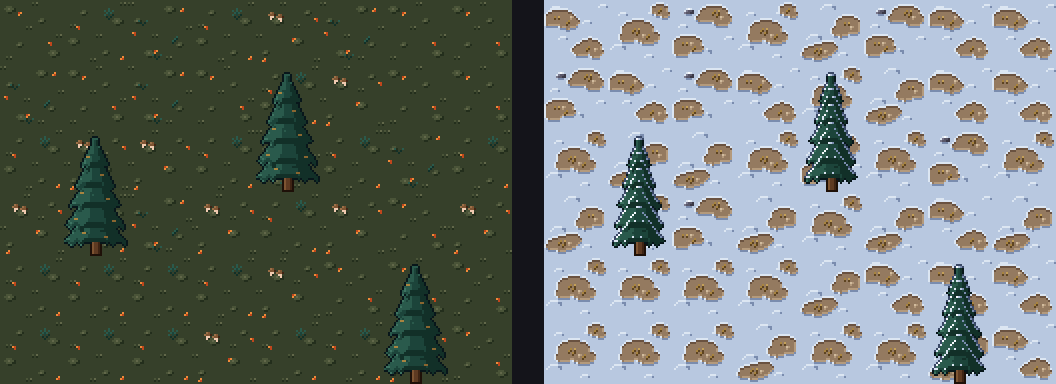
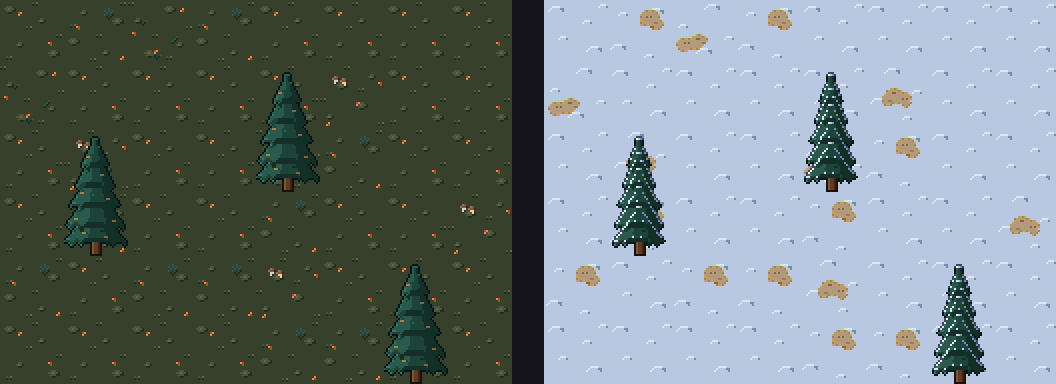
Terrain v1.1: autumn mountains mostly snow (one soft melt patch), varied dry-grass lips
Keys unchanged. autumn.mountains.snow.0 is plain snow; .1-.3 have ONE melted patch each (a long strip
9 %, a round patch 9 %, a crooked patch 10 %), light colours only (desert.stone 3, autumn.grass 2-4),
no rim ring, drifts without the summer rock / ice / shrub. Roughness 2.8 / 5.9 / 5.8 / 6.0 (mountain
snow 2.6-5.2). autumn.face.stone lips: dry-grass stretches of irregular length and place per variant
and part, ends fading to the top row. Review image uses the game's variant pick; PRODUCTION.md / NAMES.md.

Claude-Session: https://claude.ai/code/session_01VbGyibjwGmxCJ2yW5ydLfW

diff --git a/tools/terrain_release/release_v11.py b/tools/terrain_release/release_v11.py
@@ -22,7 +22,7 @@ import sys
 sys.path.insert(0, os.path.dirname(__file__))
 import gen_samples as S  # noqa: E402
 import release_faces as F  # noqa: E402
-from release_ground import new_tile, tones, set_ramp, desert_sand, forest_grass, mountains_snow  # noqa: E402
+from release_ground import new_tile, tones, set_ramp, desert_sand, forest_grass, SNOW  # noqa: E402
 from release_nature import pine  # noqa: E402
 from gen_samples import TUFT_S, TUFT_M, SPRIG  # noqa: E402
 
@@ -317,59 +317,70 @@ def autumn_forest_grass(v):
     return t
 
 
-# Autumn in the mountains (director's decision after the v1.1 inspection): PARTIAL snow. The summer snow
-# ground with bare patches (about 20-30 % of the tile) of warm rock (desert.stone) and dry ochre grass
-# (autumn.grass), at different places per variant. The patches wrap like everything on a ground tile.
-BARE = {  # the bare patches per variant: each a few overlapping ellipses (cx, cy, rx, ry), hand-placed and
-    # kept 1 px inside the tile (a patch cut by the tile's edge would not continue on a neighbour of another variant)
-    0: [[(8, 9, 6, 3.5), (12, 11, 5, 3), (4, 11, 3, 2)], [(23, 23, 5, 3), (19, 25, 4, 2.5), (26, 26, 3, 2.5)]],
-    1: [[(21, 7, 6, 3.5), (25, 9.5, 4.5, 3), (16, 9, 3, 2)], [(8, 22, 6, 3.5), (5, 25, 4, 2.5), (12, 24, 3, 2)]],
-    2: [[(15, 15, 7, 4), (20, 18.5, 5, 3), (10, 18.5, 3.5, 2.5)], [(26, 5, 3.5, 2.5), (28.5, 7, 2, 1.5)]],
-    3: [[(24, 12, 5, 3.5), (20.5, 15.5, 4, 2.5), (27, 15, 2.5, 2)], [(9, 26, 6, 3), (14, 24, 4, 2.5), (4, 27, 2.5, 2)]],
+# Autumn in the mountains (director's decision after the v1.1 inspection): mostly snow. Variant 0 is
+# plain snow (the most common, like every ground); variants 1-3 have ONE melted patch each, of their
+# own size and shape (8-12 % of the tile), kept 1 px inside the tile. Light colours only (warm rock
+# desert.stone 3 / 2, dry ochre grass autumn.grass 4 / 3 / 2) and no rim around the patch, so the snow
+# stays as quiet as the mountain snow (roughness <= 6).
+BARE = {  # (cx, cy, rx, ry) ellipses whose union is the patch, hand-placed
+    1: [(9, 22, 5.5, 2.5), (13.5, 20, 3.5, 2), (6, 24, 2.5, 1.5)],  # a long low strip, lower left
+    2: [(21, 9, 4, 3.5), (24, 12, 3, 2.5), (18.5, 11.5, 2, 1.5)],  # a round patch, upper right
+    3: [(15, 15, 3, 2), (18, 17, 4, 2.5), (12, 18, 2.5, 2), (21, 19.5, 2, 1.5)],  # a crooked patch, middle
 }
-BARE_GRASS = {  # dry grass tufts, drawn only on the bare rock
-    0: [(5, 8, TUFT_S), (21, 23, SPRIG), (11, 10, SPRIG)],
-    1: [(20, 5, TUFT_M), (5, 21, TUFT_S), (10, 23, SPRIG)],
-    2: [(12, 14, TUFT_M), (19, 17, SPRIG), (25, 4, SPRIG)],
-    3: [(22, 11, TUFT_S), (7, 24, TUFT_M)],
+BARE_MARKS = {  # (x, y, pattern): '#' dry grass blade pairs (autumn.grass), 's' a stone (desert.stone 2)
+    1: [(6, 21, "g.g"), (12, 19, "gg"), (15, 21, "s")],
+    2: [(19, 8, "g.g"), (23, 11, "s"), (21, 13, "gg")],
+    3: [(14, 14, "gg"), (19, 17, "g.g"), (12, 18, "s")],
 }
-BARE_STONES = {0: [(13, 8), (25, 24)], 1: [(24, 8), (9, 21)], 2: [(17, 17)], 3: [(25, 13), (12, 25)]}
+
+
+def _bare(v):
+    bare = set()
+    for cx, cy, rx, ry in BARE.get(v, []):
+        k = {1: 1.3, 2: 1.24, 3: 1.4}[v]  # each patch its own size (8-12 % of the tile)
+        rx, ry = rx * k, ry * k
+        for y in range(int(cy - ry) - 1, int(cy + ry) + 2):
+            for x in range(int(cx - rx) - 1, int(cx + rx) + 2):
+                if ((x + 0.5 - cx) / rx) ** 2 + ((y + 0.5 - cy) / ry) ** 2 <= 1 and 1 <= x <= 30 and 1 <= y <= 30:
+                    bare.add((x, y))
+    return bare
 
 
 def autumn_mountains_ground(v):
-    t = mountains_snow(v)
+    t = new_tile(32, 32, base=("mount.snow", 2))  # the drifts of mountains.snow.N, without its rock / ice / shrub
+    for x, y, p in SNOW[v]:
+        t.stamp(x, y, p, tones("mount.snow"))
     for m in ("desert.stone", "autumn.grass"):
         set_ramp(t, m, m)
-    bare = set()
-    for patch in BARE[v]:
-        for cx, cy, rx, ry in patch:
-            rx, ry = rx * 1.2, ry * 1.2  # about 20-30 % of the ground bare (director, v1.1 inspection)
-            for y in range(int(cy - ry) - 1, int(cy + ry) + 2):
-                for x in range(int(cx - rx) - 1, int(cx + rx) + 2):
-                    if ((x + 0.5 - cx) / rx) ** 2 + ((y + 0.5 - cy) / ry) ** 2 <= 1 and 1 <= x <= 30 and 1 <= y <= 30:
-                        bare.add((x, y))
+    bare = _bare(v)
     for x, y in bare:
-        up, down = ((x, (y - 1) % 32) in bare), ((x, (y + 1) % 32) in bare)
-        left, right = (((x - 1) % 32, y) in bare), (((x + 1) % 32, y) in bare)
-        tone = 2
-        if not up:
-            tone = 1  # the snow bank above casts a shadow on the rock
-        elif not down or not right:
-            tone = 3 if left else 2  # the lower right rim catches the light from the top left
-        t.put(x, y, "desert.stone", tone)
-    for x, y in bare:  # the snow's edge around the patch: a lit rim on top, a shaded rim below
-        for dx, dy, tone in ((0, -1, 3), (0, 1, 1), (1, 0, 2), (-1, 0, 3)):
-            q = ((x + dx) % 32, (y + dy) % 32)
-            if q not in bare and t.px[q[1]][q[0]] and t.px[q[1]][q[0]][0] == "mount.snow":
-                t.put(q[0], q[1], "mount.snow", tone)
-    for x, y, p in BARE_GRASS[v]:
-        t.stamp(x, y, p, tones("autumn.grass"), only_on="desert.stone")
-    for x, y in BARE_STONES[v]:
-        t.stamp(x, y, ["43", "32"], tones("desert.stone"), only_on="desert.stone")
+        edge = any((x + dx, y + dy) not in bare for dx, dy in ((0, -1), (1, 0), (0, 1), (-1, 0)))
+        # the patch's fringe is dry grass (lighter than rock, so it blends into the snow), the inside rock
+        if edge:
+            t.put(x, y, "autumn.grass", 4 if (x + y) % 3 else 3)
+        else:
+            t.put(x, y, "desert.stone", 3)
+    for x0, y, pat in BARE_MARKS.get(v, []):
+        for k, ch in enumerate(pat):
+            x = x0 + k
+            if (x, y) not in bare:
+                continue
+            if ch == "g":
+                t.put(x, y, "autumn.grass", 2)
+            elif ch == "s":
+                t.put(x, y, "desert.stone", 2)
+                if (x + 1, y) in bare:
+                    t.put(x + 1, y, "desert.stone", 2)
     return t
 
 
-LIP_BARE = [(5, 12), (20, 26)]  # x ranges where the autumn lip shows dry grass instead of snow
+# x ranges where the autumn lip shows dry grass instead of snow: irregular lengths and places per
+# variant and part (the ends of a stretch show grass only in the top row, so it fades into the snow)
+LIP_BARE = {
+    (0, "top"): [(3, 9), (24, 26)], (0, "top-base"): [(13, 21)],
+    (1, "top"): [(10, 12), (17, 27)], (1, "top-base"): [(1, 4), (20, 23)],
+    (2, "top"): [(6, 15)], (2, "top-base"): [(8, 10), (26, 30)],
+}
 
 
 def autumn_stone_lip(kind, seg, var=0):
@@ -378,12 +389,13 @@ def autumn_stone_lip(kind, seg, var=0):
     with ctx:
         t = F.stone_face(kind, seg)
     set_ramp(t, "autumn.grass", "autumn.grass")
-    shift = 7 * var
-    for y in range(t.h):
-        for x in range(t.w):
-            v = t.px[y][x]
-            if v and v[0] == "mount.snow" and any(a <= (x - shift) % 32 <= b for a, b in LIP_BARE):
-                t.px[y][x] = ("autumn.grass", min(3, v[1]))
+    for a, b in LIP_BARE[(var, kind)]:
+        for x in range(a, b + 1):
+            end = x in (a, b) and b - a >= 2
+            for y in range(t.h):
+                v = t.px[y][x]
+                if v and v[0] == "mount.snow" and (not end or y == 0):
+                    t.px[y][x] = ("autumn.grass", min(3, v[1]))
     return t
 
 

diff --git a/tools/terrain_release/review_v11.py b/tools/terrain_release/review_v11.py
@@ -11,6 +11,12 @@ from PIL import Image
 
 from mock_scene import tile_hash
 
+
+def release_variant(h, n):
+    """terrainArt.groundVariant for the release art: variant 0 on about half the ground, the others an equal share."""
+    k = h % (2 * n)
+    return 0 if k <= n else k - n
+
 # The demo map: ~ water, L land. A lake with a bay, an islet, a peninsula and a channel.
 MAP = [
     "LLLLLLLLLLLLLLLL",
@@ -90,7 +96,7 @@ def autumn(images):
         x0 = k * (8 * 32 + 16)
         for y in range(6):
             for x in range(8):
-                out.paste(images[f"{ground}.{tile_hash(x, y) % 4}"], (x0 + x * 32, y * 32))
+                out.paste(images[f"{ground}.{release_variant(tile_hash(x, y), 4)}"], (x0 + x * 32, y * 32))
         for i, (px, py) in enumerate(((1, 3), (4, 2), (6, 5))):
             im = images[pine]
             out.alpha_composite(im, (x0 + px * 32, py * 32 + 32 - im.height))
@@ -129,7 +135,7 @@ GROUPS = [  # (title, how the engine uses it, test on the name)
      "`.v1` (other pebble / clod positions): pick per tile (e.g. `hash % 2`: 0 = no suffix, 1 = `.v1`).",
      lambda n: n.startswith(("face.sand.", "face.desert.", "face.path."))),
     ("Autumn: forest and mountains", "`<season>.<key>` keys for the autumn season bundle (add them to its key set, like "
-     "`autumn.tile.grass.0`). `autumn.mountains.snow.N` is the mountains' ground in autumn (partial snow: bare patches of warm rock and dry grass).",
+     "`autumn.tile.grass.0`). `autumn.mountains.snow.N` is the mountains' ground in autumn (mostly snow: .0 plain, .1-.3 one small melted patch of warm rock and dry grass).",
      lambda n: n.startswith(("autumn.forest.", "autumn.mountains.", "autumn.face.stone."))),
 ]
 

diff --git a/docs/art-release/terrain/PRODUCTION.md b/docs/art-release/terrain/PRODUCTION.md
@@ -213,19 +213,18 @@
 | その季節の崖のふち | `autumn/winter.face.earth.<top/top-base>.<4/8>.v1/.v2` | 16 | 上の土の崖の種類違いに、v1.0 と同じ秋・冬のふち（色の置き換え＋落ち葉・雪）を描いたもの |
 | 台地の崖 | `face.sand.*`（島の砂）、`face.desert.*`（砂漠の赤い砂）、`face.path.*`（道）、それぞれに `.v1` | 48 | 土の崖と同じ形で、ふちを上の地面の色（砂・赤い砂・道）に、崖の本体を上より暗い色に置き換え（島の砂は砂岩 desert.stone、赤い砂と道は土 earth.face）。地図では砂漠の砂の台地 57 マス、道の台地 4 マス（島の砂の台地は今は 0）。`.v1` は土の崖の v1 と同じ小石・土くれの位置で、小石が 32 ドットごとに並ばないように |
 | 秋の森 | `autumn.forest.grass.0-3`、`autumn.forest.pine` | 5 | 苔を枯れた沼の色（forest.swamp）に置き換え＋落ち葉（fire 1〜2 番）を種類ごとに違う高さに。針葉樹は同じ形で、針葉の先に枯れ色（autumn.grass）の小さなまとまり 8 か所 |
-| 秋の雪山 | `autumn.mountains.snow.0-3`、`autumn.mountains.pine`、`autumn.face.stone.<top/top-base>.<4/8>`（＋.v1/.v2） | 17 | **一部に雪が残る秋の山**（監督の決定：夏と冬が雪なので、雪なしは不自然。灰紫の岩には秋の暖かさがない）。夏の雪の地面に、雪が解けた所（地面の 22〜25%）を手で描いた形で 2 つずつ置き、暖かい色の岩（desert.stone）と枯れた黄土色の草（autumn.grass）、小石を描いた。解けた所の上のふちは雪の影（岩の 1 番）、まわりの雪は上が明るく下が影。解けた所はマスの端をまたがない（隣が別の種類でも切れない）。針葉樹は細い木にうすく雪（1 行）。崖のふちは雪のまま、2 か所だけ枯れ草（種類ごとに位置をずらす） |
+| 秋の雪山 | `autumn.mountains.snow.0-3`、`autumn.mountains.pine`、`autumn.face.stone.<top/top-base>.<4/8>`（＋.v1/.v2） | 17 | **ほとんど雪の秋の山**（監督の決定：夏と冬が雪なので雪なしは不自然。再確認で「解けた穴が水玉に見える・ざらつきが高い」の指摘を受けて描き直し）。0 番はただの雪（いちばん多く出る種類）。1〜3 番は**解けた所が 1 つだけ**、形も大きさも種類ごとに違う（1 番は左下の細長い帯 9%、2 番は右上の丸い所 9%、3 番は真ん中の曲がった所 10%）。マスの端はまたがない。解けた所は明るい色だけ（暖かい岩 desert.stone 3 番、ふちは枯れた黄土色の草 autumn.grass 3〜4 番、中に枯れ草の葉と小石を 2 番で少し）、**まわりに輪郭や影の輪は描かない**ので、雪の中にやわらかくなじむ。雪の部分は夏の吹きだまりそのまま（岩・氷・低木の先は描かない）。針葉樹は細い木にうすく雪。崖のふちは雪のまま、枯れ草の所を種類と部分ごとに長さも位置も変えた（1〜2 か所、両端は上の 1 行だけにしてなじませる） |
 
 確かめたこと（`check.txt`・テスト・画像）：
 - 375 枚全部：半透明 0、ランプ外の色 0、大きさ（v1.0 は `LIST.md`、v1.1 は種類どおり 32×32／32×8／32×16／32×60）
 - 水のつなぎ：水に接する辺のいちばん外の列は `tile.water` の同じコマとドットまで同じ。水から遠い辺は元の砂のマスと同じ（`tile.shore`・`tile.shore-desert`）。重ねる土手は陸側が透明。水ぎわの 57 種類×3 組すべて、2 コマの違いが 12〜30 ドット（テスト）
 - 小さな地図に組んで見た（`v11/shore_*.png`：湖・入り江・小島・半島・水路、砂・赤い砂・草・森・雪・冬の草）。継ぎ目なし、角も自然
 - 崖の種類違いを 12 マスの長い崖に混ぜて見た（`v11/cliffs.png`）。32 ドットごとのくり返しが目立たない
-- 秋の森・山の地面：4×4 のくり返しで継ぎ目なし。秋の森のざらつき 3.2〜3.8（3 番だけ 6.1：きのこ＋落ち葉）、マントとの明るさの差 26。秋の山は雪と岩が混ざるので 13.5〜14.4（雪原の中の解けた所の明暗。2 番の雪の面が約 7 割）
+- 秋の森・山の地面：4×4 のくり返しで継ぎ目なし。秋の森のざらつき 3.2〜3.8（3 番だけ 6.1：きのこ＋落ち葉）、マントとの明るさの差 26。秋の山のざらつき 2.8・5.9・5.8・6.0（0〜3 番。雪山の地面 2.6〜5.2 とほぼ同じ。2 番の雪の面が 87〜97%）。秋の山を広く並べた図（`v11/autumn.png`）は、ゲームと同じ種類の選び方（0 番が約半分）で作った
 - 確認画像：`v11/autumn.png`
 
 v1.1 の残り：
 - 水のつなぎは「辺 4 つ＋斜めだけの角」の組み合わせ。辺にも斜めにも水がある複雑な所（例：北だけ水で南東も水）は辺の絵を使い、南東の小さな角は出ない（地図でまれ）
-- 秋の山の解けた所は 1 マスに 2 つずつなので、広い雪原では少し規則的に見えることがある（`v11/autumn.png`）
 - 道（`=`）と遺跡の床（`u`）が水に接する所（約 150 マス）は水ぎわの絵がなく、四角い岸のまま（人が作った石や道なので不自然ではない。`NAMES.md` にも書いた）
 
 ## 残っている問題・決めてほしいこと

diff --git a/docs/art-release/terrain/NAMES.md b/docs/art-release/terrain/NAMES.md
@@ -238,7 +238,7 @@ Pick per tile (e.g. `hash(tx, ty) % 3`: 0 = the existing key without suffix, 1 =
 
 ## Autumn: forest and mountains (22)
 
-`<season>.<key>` keys for the autumn season bundle (add them to its key set, like `autumn.tile.grass.0`). `autumn.mountains.snow.N` is the mountains' ground in autumn (partial snow: bare patches of warm rock and dry grass).
+`<season>.<key>` keys for the autumn season bundle (add them to its key set, like `autumn.tile.grass.0`). `autumn.mountains.snow.N` is the mountains' ground in autumn (mostly snow: .0 plain, .1-.3 one small melted patch of warm rock and dry grass).
 
 | key | size | anchor | frames |
 |---|---|---|---|
